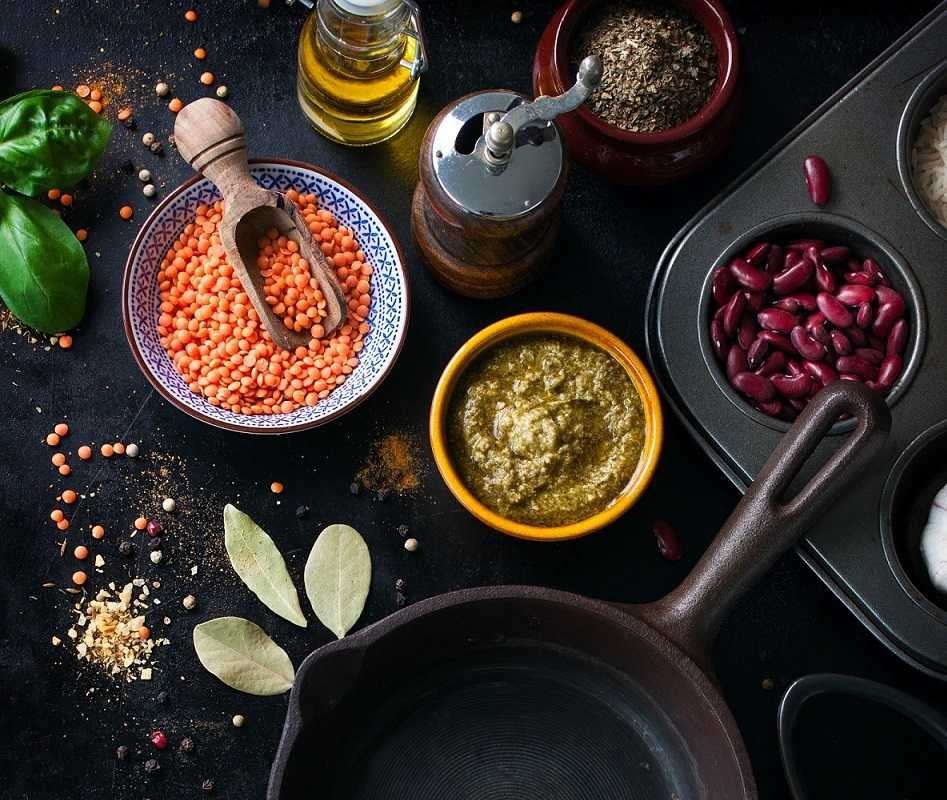
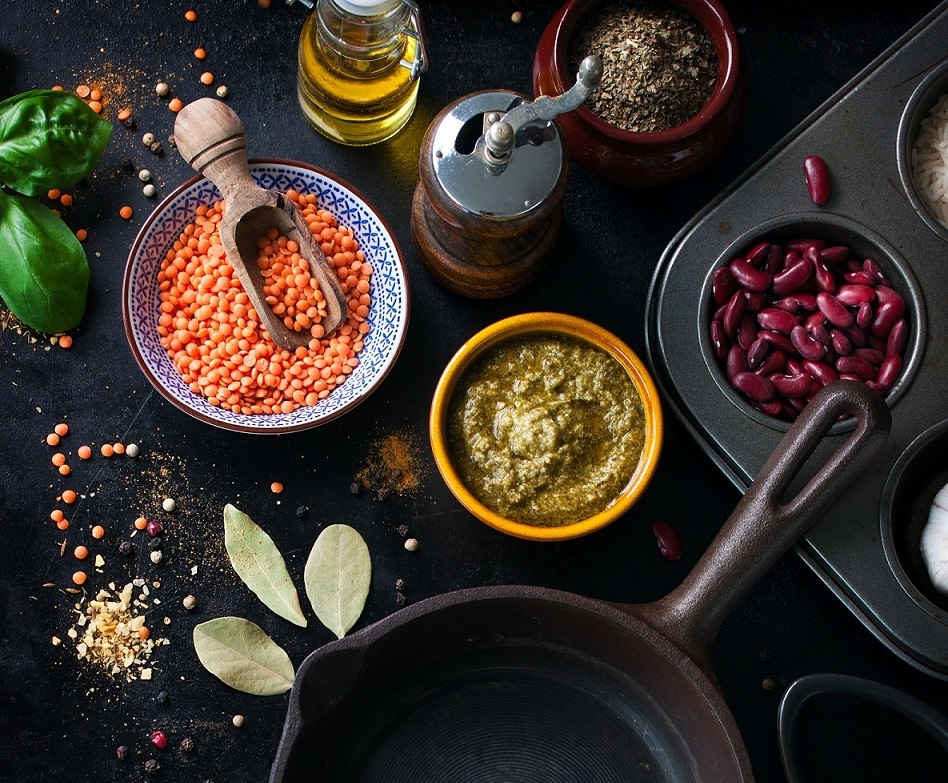
Improve resolution of parallex image

diff --git a/src/components/HomePage/CoverImage.js b/src/components/HomePage/CoverImage.js
@@ -3,34 +3,29 @@ import { Link } from "react-router-dom";
 
 import { motion, useScroll, useTransform } from "framer-motion";
 
-// const initialState = { opacity: 0 };
-// const appear = { opacity: 1, transition: { duration: 0.75 } };
+const initialState = { opacity: 0 };
+const appear = { opacity: 1, transition: { duration: 0.75 } };
 
 function CoverImage() {
   // SrollY tells us by how many px the user scrolled along the y axis
   const { scrollY } = useScroll();
-  // useTransform will transform the px values to opacity values. It returns the transformed values,
-  // it wrapes them in a motion value object, it does not re-render the component
-  // function everytime we scroll
-  const opacityCoverImg = useTransform(
-    scrollY,
-    [0, 200, 300, 500],
-    [1, 0.5, 0.5, 0]
-  );
+  // useTransform will transform the px values of scrollY to the desired styling values
+  // (opacity, scale, y position and so on).
+  // It returns the transformed values, it wrapes them in a motion value object,
+  // it does not re-render the component function everytime we scroll
   const yCoverImg = useTransform(scrollY, [0, 200], [0, -50]);
-
-  const yText = useTransform(scrollY, [0, 400], [0, 100]);
+  const yText = useTransform(scrollY, [0, 400], [0, 80]);
   const scaleText = useTransform(scrollY, [0, 300], [1, 1.2]);
 
   return (
     <motion.div
       className={classes.cover_container}
-      style={{ opacity: opacityCoverImg, y: yCoverImg }}
+      initial={initialState}
+      animate={appear}
+      style={{ y: yCoverImg }}
     >
       <motion.div
         className={classes.cover_body}
-        initial={{ opacity: 0 }}
-        animate={{ opacity: 1, transition: { duration: 0.75 } }}
         style={{ scale: scaleText, y: yText }}
       >
         <h1 className={classes.cover_title}>Welcome To Our Store</h1>

diff --git a/src/components/HomePage/ParallaxSection.js b/src/components/HomePage/ParallaxSection.js
@@ -6,6 +6,10 @@ import { motion } from "framer-motion";
 const hidden = { opacity: 0, scale: 0.8 };
 const appear = { opacity: 1, scale: 1, transition: { duration: 0.5 } };
 
+function scrollToTop() {
+  window.scrollTo(0, 0);
+}
+
 function ParallaxSection() {
   return (
     <div className={classes.parallax}>
@@ -28,7 +32,11 @@ function ParallaxSection() {
         whileInView={appear}
         viewport={{ once: true }}
       >
-        <Link to="/Grocery-Store/recipes/" className={classes.recipes_anchor}>
+        <Link
+          to="/Grocery-Store/recipes/"
+          className={classes.recipes_anchor}
+          onClick={scrollToTop}
+        >
           <span>Go To Recipes</span>
           <svg
             className={classes.arrow_icon}

diff --git a/src/components/HomePage/VegetablesSection.js b/src/components/HomePage/VegetablesSection.js
@@ -35,7 +35,7 @@ function VegetablesSection() {
             Our commitment to supporting local farmers is at the heart of what
             we do, ensuring that you not only enjoy the best flavors but also
             contribute to the
-            <span className={classes.italic}>sustainability</span> of our local
+            <span className={classes.italic}> sustainability</span> of our local
             agricultural community.
           </p>
         </motion.div>

diff --git a/src/components/Navigation/MobileMenu.js b/src/components/Navigation/MobileMenu.js
@@ -10,14 +10,14 @@ import { motion } from "framer-motion";
 const list = {
   visible: {
     transition: {
-      staggerChildren: 0.5,
+      staggerChildren: 0.1,
     },
   },
 };
 
 const item = {
-  visible: { opacity: 1, x: 0, transition: { duration: 0.2 } },
-  hidden: { opacity: 0, x: -50 },
+  visible: { opacity: 1, x: 0, transition: { duration: 0.25 } },
+  hidden: { opacity: 0, x: -20 },
 };
 
 function MobileMenu(props) {

diff --git a/src/components/Recipes/RecipeCard.js b/src/components/Recipes/RecipeCard.js
@@ -16,9 +16,17 @@ const image = {
   },
 };
 
+function scrollToTop() {
+  window.scrollTo(0, 0);
+}
+
 function RecipeCard(props) {
   return (
-    <Link to={`${props.name}`} className={classes.recipe_card_link}>
+    <Link
+      to={`${props.name}`}
+      className={classes.recipe_card_link}
+      onClick={scrollToTop}
+    >
       <motion.div
         className={classes.recipe_card_container}
         whileHover="hover"

diff --git a/src/components/Navigation/MainNavigation.js b/src/components/Navigation/MainNavigation.js
@@ -15,6 +15,12 @@ function MainNavigation() {
 
   const [showMobileMenu, setShowMobileMenu] = useState(false);
 
+  if (showMobileMenu) {
+    document.body.style.overflow = "hidden";
+  } else {
+    document.body.style.overflow = "auto";
+  }
+
   function clickHandler(action) {
     if (action === "show") {
       setShowMobileMenu(true);
